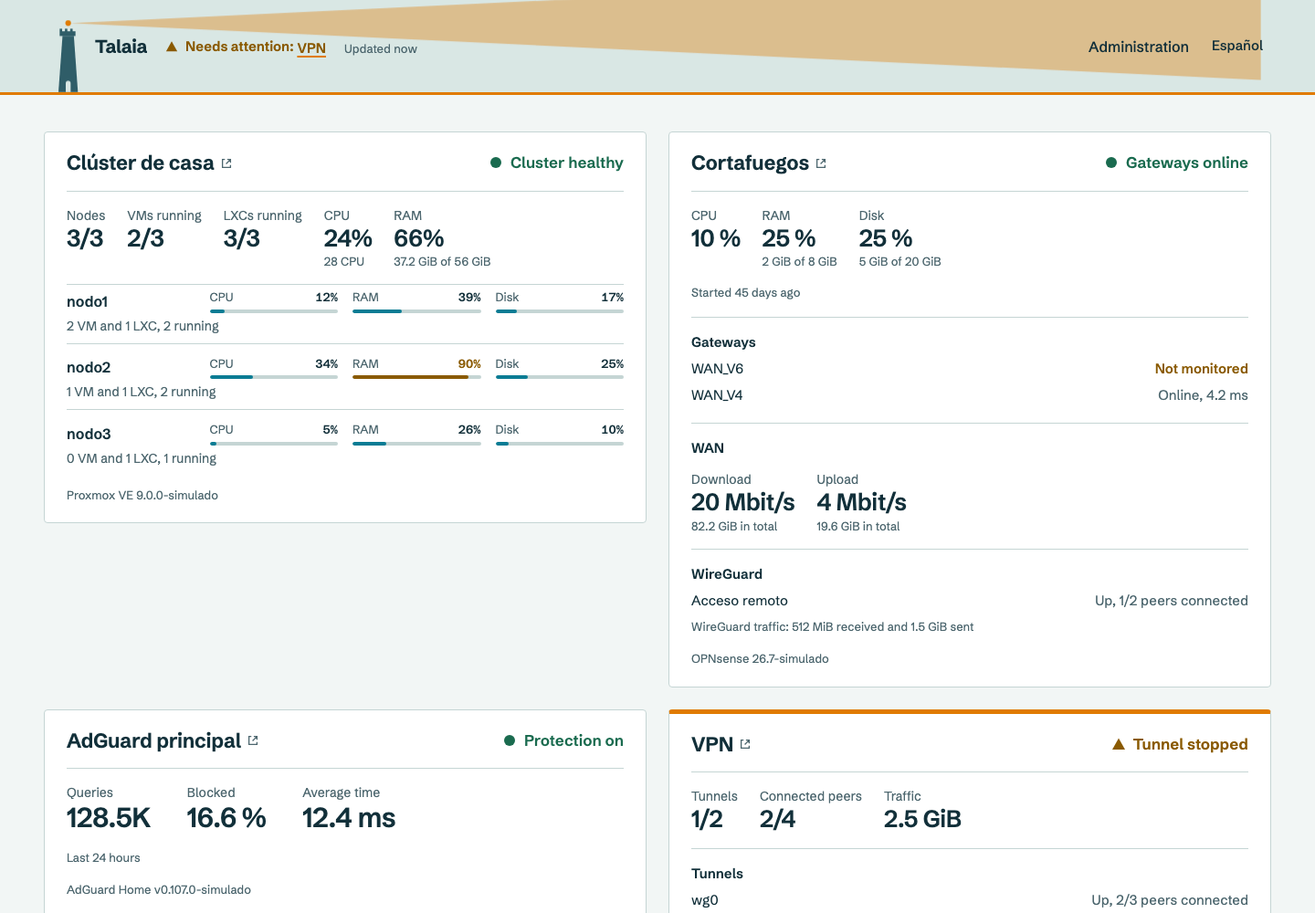
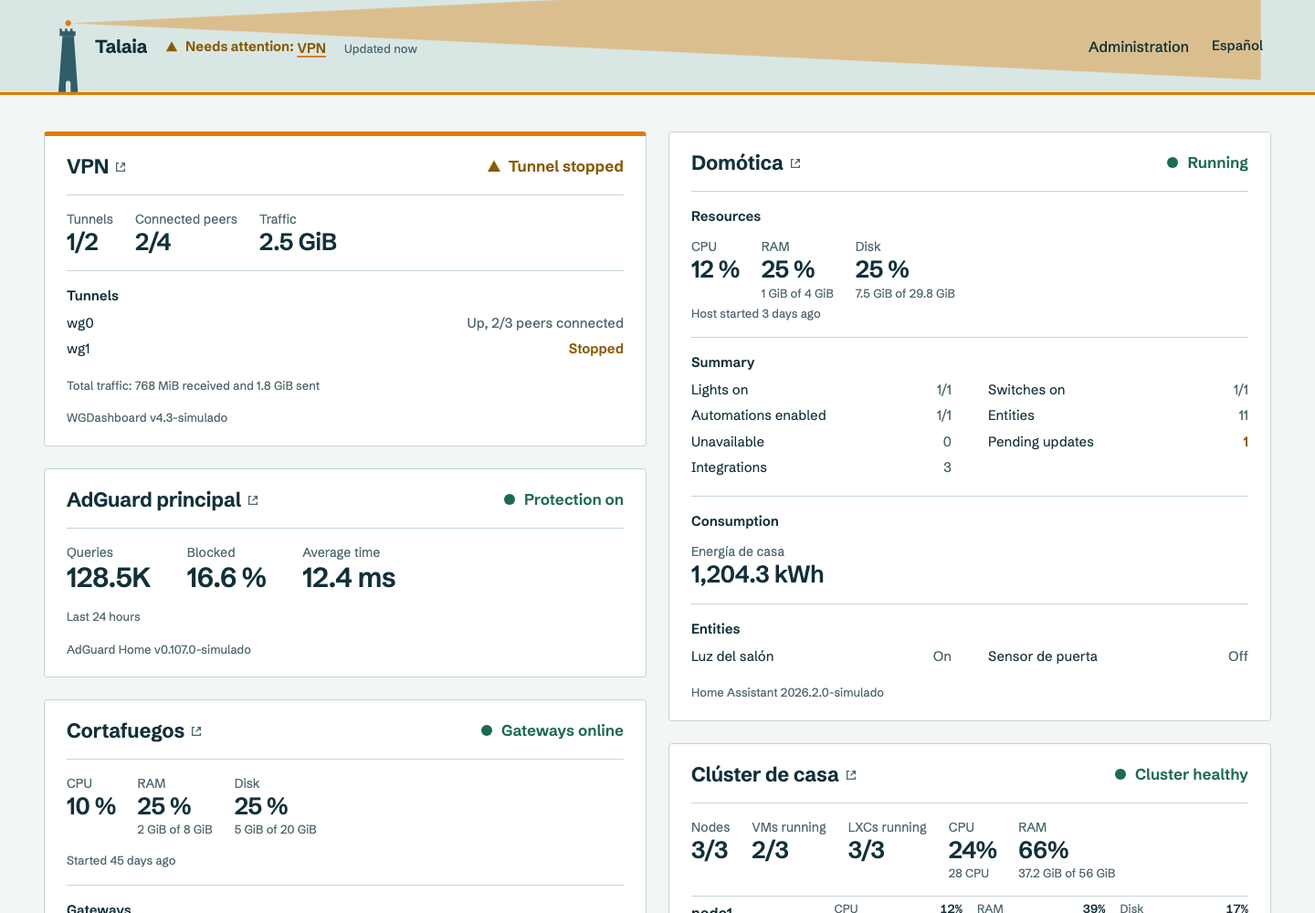
Documenta el panel apilado (hito 13)

diff --git a/docs/superpowers/plans/2026-11-13-panel-apilado.md b/docs/superpowers/plans/2026-11-13-panel-apilado.md
@@ -1,0 +1,130 @@
+# Bloques que se apilan solos y panel a todo el ancho: plan de implementación
+
+> **For agentic workers:** REQUIRED SUB-SKILL: Use superpowers:subagent-driven-development (recommended) or superpowers:executing-plans to implement this plan task-by-task. Steps use checkbox (`- [ ]`) syntax for tracking.
+
+**Goal:** En el panel, cada bloque se coloca justo debajo del último bloque de sus columnas según su altura real. El panel ocupa todo el ancho de la ventana, y el editor muestra lo mismo.
+
+**Architecture:** Una función pura `stackLayout` en `web/src/stack.ts` calcula la posición de cada bloque a partir de sus columnas, su orden y las alturas medidas. El panel pasa del CSS grid por filas a un contenedor relativo con bloques absolutos, medidos con `ResizeObserver`. El editor calcula `h` a partir de la vista previa, solo permite cambiar el ancho, y su estado «sin guardar» ignora `h`.
+
+**Tech Stack:** React 19 + TypeScript, react-grid-layout 2, Go (API y store), Playwright (E2E).
+
+**Spec:** `docs/superpowers/specs/2026-11-13-panel-apilado-design.md`
+
+## Global Constraints
+
+- Sin cambios de esquema ni de formato en la API: se siguen guardando `x`, `y`, `w` y `h` en 12 columnas.
+- La API mantiene `minWidgetWidth = 2`. El editor usa `minW = 3`.
+- Anchos de los botones: 3, 4, 6, 8 y 12. El tirador lateral (`e`) permite cualquier ancho de 3 a 12.
+- Ancho por defecto de un bloque nuevo: 4, en el editor (`NEW_WIDTH`) y en el store (`DefaultWidgetWidth`).
+- Umbrales del panel: por debajo de 900 px, una columna; de 900 a 1400 px, anchos menores de 6 pasan a 6 y se recolocan en dos mitades por orden; por encima de 1400 px, la disposición del editor.
+- Sin animaciones de posición en el panel.
+- Rama `hito-13-panel-apilado` desde `main`. Commits en español con la línea `Co-Authored-By: Claude Opus 5.5 <noreply@anthropic.com>`.
+- Documentación en el mismo cambio: 01, 03, 04, 05, 06 y los dos manuales. Capturas en los dos idiomas con `make screenshots`.
+
+## Review Focus
+
+1. **Un bloque cambia de altura con datos en vivo** (aparece una sección, crece una lista): los de debajo se recolocan sin solaparse. Se prueba en la tarea 2, con un estado del simulador que alarga un bloque.
+2. **Abrir el editor no marca «Cambios sin guardar»**, ni tampoco cuando llegan datos nuevos. Se prueba en la tarea 3 con la aserción de «Sin cambios» tras esperar más de un ciclo de refresco.
+3. **Pantalla mediana (1100 px) con bloques de ancho 3 y 4:** ningún bloque se sale de la ventana ni se solapa. Se prueba en la tarea 2 con un viewport de 1100.
+4. **Panel guardado antes, con `h = 10` y `y` antiguos:** se pinta en el mismo orden y columnas, sin huecos. Lo cubren los escenarios E2E existentes, que guardan con el formato antiguo antes de la tarea 3.
+5. **Móvil (375 px):** una columna en orden y sin desbordamiento horizontal. Lo cubre E2E-13, que debe seguir pasando.
+
+---
+
+### Task 1: Apilado puro y ancho por defecto en el store
+
+**Files:**
+- Create: `web/src/stack.ts`
+- Modify: `internal/store/panel.go` (`DefaultWidgetWidth` = 4; `placeNewConnection` alterna tres columnas: `x = (count % 3) * 4`)
+- Test: `internal/store/store_test.go` (`TestNewConnectionsFillTwoColumns` → `TestNewConnectionsFillThreeColumns`)
+
+**Interfaces:**
+- Produces:
+  ```ts
+  export interface StackItem { id: string; x: number; y: number; w: number }
+  export interface Placed { id: string; x: number; w: number; top: number }
+  export const COLUMNS = 12;
+  /** Anchos efectivos según el ancho de la ventana (px). */
+  export function responsiveItems(items: StackItem[], viewport: number): StackItem[];
+  /** Apila por orden (y, x): top = máximo fondo ocupado en sus columnas. */
+  export function stackLayout(items: StackItem[], heights: Record<string, number>, gap: number): { placed: Placed[]; height: number };
+  ```
+- `responsiveItems`: viewport < 900 → todos `x = 0, w = 12`, en orden; 900 ≤ viewport < 1400 → `w = max(w, 6)`, después se recolocan por orden de izquierda a derecha (`x` acumulado, salto de línea si `x + w > 12`), con una `y` creciente para conservar el orden; ≥ 1400 → sin cambios.
+
+- [ ] **Step 1: Write the failing test** `TestNewConnectionsFillThreeColumns`: con cuatro conexiones creadas, los widgets tienen `X` 0, 4, 8 y 0, `Y` 0, 0, 0 y `DefaultWidgetHeight`, y `W` igual a 4.
+- [ ] **Step 2: Run** `go test ./internal/store -run TestNewConnectionsFill`. Expected: FAIL.
+- [ ] **Step 3: Implement** the store change and `web/src/stack.ts` (pure functions, no React).
+- [ ] **Step 4: Run** `go test ./internal/store` and `npm --prefix web run typecheck`. Expected: PASS.
+- [ ] **Step 5: Update** the test name in `docs/proyecto/04-plan-de-pruebas.md`, including its traceability row, and run `make docs-check`.
+- [ ] **Step 6: Commit** «Añade el apilado de bloques y el ancho por defecto de un tercio».
+
+### Task 2: Panel apilado y a todo el ancho
+
+**Files:**
+- Modify: `web/src/Dashboard.tsx` (bloque `.panel-grid`)
+- Modify: `web/src/styles.css` (`.lookout-main` sin `max-width`; `.panel-grid` relativo; hijos absolutos; quitar la regla `grid-column … !important` de 900 px)
+- Modify: `e2e/fake-homeassistant.mjs` si hace falta un estado que alargue el bloque (Review Focus 1)
+- Test: `e2e/run.mjs` (E2E-38 nuevo; E2E-24 deja de leer `style.gridColumn`)
+
+**Interfaces:**
+- Consumes: `stackLayout` and `responsiveItems` from Task 1.
+- Produces: each block wrapper is `<div class="panel-cell" data-x data-w style="left; width; top">`. The `data-x` and `data-w` values are the effective columns. Tests use them, not styles.
+
+- [ ] **Step 1: Write the failing E2E** `["E2E-38", "Bloques apilados por su altura real y panel a todo el ancho"]`:
+  - En el editor, coloca dos bloques cortos uno encima del otro en las columnas 0-5 y uno largo en 6-11, y guarda.
+  - A 1600 px: el `top` del segundo bloque corto es igual al fondo del primero más el espacio entre bloques (±2 px), y menor que el fondo del largo.
+  - `.lookout-main` mide más de 1472 px de ancho.
+  - Si el simulador alarga el bloque de arriba, el de debajo baja y no se solapan.
+  - A 1100 px: ningún `.panel-cell` se sale de la ventana ni se solapa con otro.
+- [ ] **Step 2: Run** `make e2e`. Expected: FAIL at E2E-38.
+- [ ] **Step 3: Implement** the panel:
+  - Measure each `.service` with one `ResizeObserver`.
+  - Calculate `responsiveItems(widgets, window.innerWidth)` and then `stackLayout(…, heights, 24)`.
+  - Position with `left = x / 12`, `width = w / 12` minus the gap, and `top` in px. The container gets the total height.
+  - Recalculate on window resize.
+  - Until every height is measured, render in normal flow.
+- [ ] **Step 4: Adapt E2E-24** to read `data-w` and run `make e2e`. Expected: PASS, including E2E-13 at 375 px.
+- [ ] **Step 5: Commit** «Apila los bloques del panel por su altura real y usa todo el ancho».
+
+### Task 3: Editor con alturas reales y anchos por botones
+
+**Files:**
+- Modify: `web/src/PanelEditor.tsx`:
+  - `NEW_WIDTH = 4`, `MIN_WIDTH = 3`.
+  - `resizeConfig.handles = ["e"]`.
+  - `resizeWidget` recorre `[3, 4, 6, 8, 12]`.
+  - `dirty` compara sin `h`.
+  - Medición de la vista previa con `ResizeObserver` → `h = ceil((px + 16) / (28 + 16))`, limitada a `[2, 60]`.
+- Modify: `web/src/styles.css`: `.panel-wide` sin `max-width`, y `.editor-widget-preview` sin recorte vertical, para medir su altura real.
+- Test: `e2e/run.mjs` (E2E-24)
+
+**Interfaces:**
+- Consumes: nothing from earlier tasks. The editor keeps sending `PlacedWidget` to `api.savePanel` unchanged.
+
+- [ ] **Step 1: Extend E2E-24** (failing):
+  - On opening the editor, wait 6 s (more than the 5 s refresh of the simulators) and check that it still says «Sin cambios».
+  - «Más ancho» on a block of width 4 leaves it at 6, and again at 8.
+  - The corner handle no longer changes the height: dragging down keeps the bounding box height within ±4 px.
+- [ ] **Step 2: Run** `make e2e`. Expected: FAIL at E2E-24.
+- [ ] **Step 3: Implement** the editor changes listed above.
+- [ ] **Step 4: Run** `make test`, `make e2e` and `make docs-check`. Expected: PASS.
+- [ ] **Step 5: Commit** «Ajusta el editor a las alturas reales y a anchos de cuarto a fila entera».
+
+### Task 4: Documentación, capturas y verificación
+
+**Files:**
+- Modify:
+  - `docs/proyecto/01-requisitos.md`: RF-22 o un RF nuevo, hito 13.
+  - `docs/proyecto/03-diseno-funcional.md`: Altura, Recuadro, anchos y umbrales.
+  - `docs/proyecto/04-plan-de-pruebas.md`: E2E-38, E2E-24 y trazabilidad.
+  - `docs/proyecto/05-decisiones.md`: DEC-41, que sustituye en parte a DEC-38 en la altura de los bloques.
+  - `docs/proyecto/06-estado-y-cambios.md`: fila e historial del hito 13.
+  - Los dos manuales: «Organizar el panel».
+  - Capturas de `docs/usuario/img`, `docs/user/img` y `docs/img`.
+- Commit the spec and this plan as well.
+
+- [ ] **Step 1: Write** the documentation above.
+- [ ] **Step 2: Run** `make screenshots` and keep only the images that change for real reasons. Look at 07, 11, 15, 16, 18 and the cover images.
+- [ ] **Step 3: Run** `make test`, `make e2e` and `make docs-check`. Expected: PASS.
+- [ ] **Step 4: Run** the `revisor-de-hito` subagent and fix what it reports.
+- [ ] **Step 5: Commit** «Documenta el panel apilado (hito 13)».

diff --git a/docs/superpowers/specs/2026-11-13-panel-apilado-design.md b/docs/superpowers/specs/2026-11-13-panel-apilado-design.md
@@ -1,0 +1,87 @@
+# Diseño: bloques que se apilan solos y panel a todo el ancho
+
+## Intención
+
+El cliente quiere colocar los bloques con más libertad. Hoy, un bloque largo (Home Assistant) fija la altura de su «fila», y los cortos que tiene al lado (Portainer) dejan un hueco debajo hasta la fila siguiente. Quiere que dos bloques cortos puedan ir uno encima de otro al lado de uno largo. Además quiere ver más bloques uno al lado del otro y aprovechar todo el ancho del monitor: hoy el panel no pasa de 92rem y queda centrado.
+
+**Causa actual.** El editor guarda para cada bloque `x`, `y`, `w` y `h` en una rejilla de 12 columnas, donde `h` son unidades de 28 px que nadie relaciona con el contenido: todos los bloques nacen con `h = 10`. El panel pinta un CSS grid con `grid-row: y / span h` y filas `auto`, así que el contenido real estira filas compartidas y empuja a los bloques de debajo aunque no estén en sus columnas.
+
+## Objetivos
+
+- En el panel, cada bloque queda justo debajo del último bloque de sus columnas, según la altura real de su contenido. No hay huecos verticales salvo el espacio entre bloques.
+- El editor muestra lo mismo: alturas reales, y los bloques suben solos al soltar. Solo se elige la anchura, las columnas y el orden.
+- El panel usa todo el ancho de la ventana, con su margen lateral, para que quepan tres, cuatro o más bloques por fila en un monitor ancho.
+- Anchos útiles y fáciles de elegir: cuarto, tercio, mitad, dos tercios y entero.
+
+## Fuera de alcance
+
+- Elegir la altura de un bloque. Desaparece como decisión del usuario.
+- Bloques que cambian de contenido según su tamaño (versiones compactas). Si un bloque estrecho no cabe, su contenido se reparte en más líneas, como hoy.
+- Cambios en el esquema de la base de datos.
+
+## Lo que lo haría fracasar
+
+- Que el panel salte o parpadee cada pocos segundos al actualizarse los datos.
+- Que el móvil empeore: debe seguir siendo una columna, en el orden del editor.
+- Que un panel guardado antes se vea desordenado tras actualizar.
+
+## Enfoques considerados
+
+1. **Columnas que se apilan solas (elegido por el cliente).** Cada bloque conserva columnas, ancho y orden; en vertical se apila según la altura real. Libertad de colocación sin calcular alturas. Si un bloque crece, los de debajo bajan.
+2. **Alturas fijas como en el editor.** Control total, pero con contenido recortado o con scroll si crece, y alturas que reajustar a mano.
+3. **Columnas fijas (2 o 3 listas).** Lo más simple, pero sin anchos libres.
+
+## Diseño
+
+### Modelo
+
+Sin cambios en la base de datos ni en la API: se siguen guardando `x`, `y`, `w` y `h` en 12 columnas.
+
+- `x` y `w`: columnas del bloque, como hoy.
+- `y`: solo da el **orden** (primero por `y`, después por `x`).
+- `h`: la calcula el editor a partir de la altura real del contenido. El panel no la usa para colocar. Se sigue guardando porque la validación de solapes de la API y el editor la necesitan.
+
+### Colocación en el panel («horizonte»)
+
+Una función pura, `stack(widgets, alturas, gap)`, recorre los bloques en orden y, para cada uno, calcula su `top` como el máximo del fondo ya ocupado en sus columnas (`x … x+w-1`); después sube ese fondo a `top + altura + gap`. Devuelve `top` por bloque y la altura total.
+
+- El contenedor del panel es `position: relative` con la altura total; cada bloque, `position: absolute` con `left` y `width` por columnas y el `top` calculado.
+- Las alturas se miden con un `ResizeObserver` por bloque. Al cambiar una, se recalcula todo en el mismo fotograma. Sin animaciones de posición, para que las actualizaciones en vivo no se noten como movimiento.
+- Antes de la primera medida, los bloques se muestran en flujo normal (una columna) para no dejar la página vacía.
+- **Anchos según la pantalla:**
+  - Menos de 900 px: una sola columna, en orden, como hoy.
+  - De 900 a 1400 px: los bloques de menos de media fila pasan a media fila y, como así ya no caben en sus columnas, se recolocan por orden de izquierda a derecha en dos mitades (columnas 0 y 6), como hace hoy `reflow` en el editor, antes de apilar. Los de media fila o más conservan su ancho y se colocan igual, por orden.
+  - Más de 1400 px: el ancho y las columnas elegidos.
+
+  El editor siempre trabaja con la disposición de escritorio (12 columnas, sin estas reglas). Los umbrales son una decisión del constructor si al probar no encajan, y la regla se documenta.
+
+### Ancho del panel
+
+`.lookout-main` deja de tener `max-width: 92rem`: ocupa toda la ventana con el margen lateral actual. El editor (`.panel-wide`) también, para que las proporciones coincidan.
+
+### Editor
+
+- `react-grid-layout` sigue con su compactación vertical por defecto, que es el mismo apilado que el panel.
+- La altura `h` de cada bloque se calcula a partir de la vista previa: `ceil((alto_px + margen) / (rowHeight + margen))`, medido con `ResizeObserver`. No se puede redimensionar en vertical: el tirador de la esquina pasa a ser lateral (`e`) y solo cambia el ancho.
+- **Las alturas medidas no cuentan como cambios.** El estado «sin guardar» compara las páginas sin `h`, así que abrir el editor o que lleguen datos nuevos no lo activa. La `h` medida se envía cuando se guarda por otros motivos.
+- Los botones «Más estrecho» y «Más ancho» recorren los anchos 3, 4, 6, 8 y 12, saltando al siguiente de la lista desde cualquier ancho. El tirador lateral permite cualquier ancho de 3 a 12: la lista es una comodidad de los botones, no una regla, y la API no la valida.
+- El ancho mínimo del editor pasa de 2 a 3 columnas (`minW`). La API mantiene el mínimo de 2 para no rechazar paneles guardados antes.
+- Los bloques nuevos nacen con ancho 4 (un tercio), en el editor y en `placeNewConnection`.
+
+La vista previa del editor mide el bloque con el ancho del editor, que puede no coincidir con el del panel. Por eso la altura del editor es aproximada. El panel siempre mide la suya.
+
+### Paneles ya guardados
+
+No necesitan migración. Su orden por `(y, x)` y sus columnas se respetan, y la altura guardada se ignora en el panel. Un bloque antiguo de 2 columnas se pinta con 2 hasta que se cambie su ancho en el editor; la API lo sigue aceptando al guardar.
+
+## Pruebas y documentación
+
+- Pruebas de Go: ancho por defecto (4) de una conexión nueva y su colocación.
+- Prueba unitaria, o en E2E si no hay pruebas de frontend, del apilado: dos bloques cortos en las columnas 1-6 y uno largo en 7-12 dan dos tops distintos a la izquierda y ninguno a la derecha.
+- E2E: en el panel real con simuladores, un bloque corto colocado bajo otro corto, al lado de uno largo, empieza donde acaba el de arriba y no donde acaba el largo. El panel ocupa más de 92rem en una ventana ancha.
+- Capturas regeneradas en los dos idiomas.
+- Documentación: 01 (requisito de colocación), 03 (reglas de altura, ancho y anchos disponibles), 05 (DEC nueva, que sustituye en parte a DEC-38), 06 (hito) y los dos manuales («Organizar el panel»).
+
+## Decisiones del constructor
+
+Las marcadas como tales arriba: los umbrales de pantalla, el ancho por defecto (4) y la secuencia de anchos (3, 4, 6, 8 y 12). Si al probar con el panel real alguna no funciona, se ajusta y se documenta. Tras la revisión del diseño se decidieron también: la recolocación en dos mitades en pantallas medianas, que las alturas medidas no cuenten como cambios, que la API mantenga el mínimo de 2 y que la lista de anchos sea solo de los botones.

diff --git a/docs/proyecto/03-diseno-funcional.md b/docs/proyecto/03-diseno-funcional.md
@@ -57,8 +57,10 @@ Mientras no exista un administrador, todas las rutas muestran el asistente de pr
 - **Secciones del bloque:** cada sección (cifras, listas, tablas o un apartado con título) lleva una línea encima y ninguna debajo. Dentro de un apartado con título, las cifras no llevan línea propia.
 - **Resumen en la cabecera:** junto al nombre, el estado de todos los servicios del panel, de cualquier página. Si todos están bien, «Los N servicios están en orden»; si no, «N servicios necesitan atención:» y sus nombres, con los fallos primero. Cada nombre lleva a su bloque, en su página, y le da el foco. Los servicios en neutro, como «Sin túneles», no cuentan como avisos.
 - **Atalaya:** la luz y el haz de la cabecera toman el color del peor estado: el acento elegido si todo va bien, ámbar con avisos y rojo con fallos, con el haz más intenso y la línea inferior del mismo color. Al cambiar el peor estado, el haz vuelve a barrer una vez, salvo con movimiento reducido.
-- **Altura:** un bloque mide lo que su contenido, aunque en el editor se le haya dado más alto, y crece si lo necesita, sin solaparse. Los bloques de una misma fila pueden acabar a distinta altura.
-- **Pantallas de menos de 900 px:** los bloques se apilan en una columna, de arriba abajo y de izquierda a derecha.
+- **Colocación:** cada bloque conserva las columnas, el ancho y el orden del editor. En vertical queda justo debajo del último bloque de sus columnas, según la altura real de su contenido, con 1,5rem entre bloques. Si un bloque cambia de altura con los datos, los de debajo se recolocan sin animación.
+- **Ancho del dashboard:** toda la ventana, con su margen lateral.
+- **Pantallas de 900 a 1400 px:** los bloques de menos de media fila pasan a media fila y se colocan por orden en dos mitades.
+- **Pantallas de menos de 900 px:** una sola columna, en el orden del editor.
 - **Página vacía:** indica que no tiene servicios.
 - **Sesión obligatoria:** si está activa, sin sesión se muestra el inicio de sesión. Quien tuviera el panel abierto deja de verlo.
 
@@ -196,10 +198,10 @@ La CPU y la RAM son las de Home Assistant, no las del equipo completo.
 
 - **Páginas:** añadir, renombrar (hasta 40 caracteres), mover y eliminar con confirmación. Entre 1 y 20. Eliminar una página no elimina sus conexiones.
 - **Añadir a esta página:** botones con las conexiones que aún no están en ella.
-- **Colocar:** arrastrando la barra de cada bloque y su esquina inferior derecha.
-- **Teclado:** botones **Antes**, **Después**, **Más estrecho** y **Más ancho**, que recolocan por filas, y **Quitar**.
-- **Vista previa:** muestra el contenido real, recortado a su tamaño, y sin interacción.
-- **Guardar:** los cambios no se aplican hasta pulsar **Guardar panel**. **Descartar** vuelve a lo guardado, y el navegador avisa si se cierra la página con cambios.
+- **Colocar:** arrastrando la barra de cada bloque para moverlo y su borde derecho para cambiar el ancho, de 3 a 12 columnas. La altura no se elige: se ajusta sola al contenido de la vista previa, y los bloques suben solos como en el dashboard.
+- **Teclado:** botones **Antes**, **Después**, **Más estrecho** y **Más ancho**, que recolocan por filas, y **Quitar**. Los anchos de los botones son un cuarto, un tercio, media fila, dos tercios y la fila entera. Un bloque nuevo ocupa un tercio.
+- **Vista previa:** muestra el contenido real, sin interacción. Su altura es aproximada, porque se mide con el ancho del editor.
+- **Guardar:** los cambios no se aplican hasta pulsar **Guardar panel**. Las alturas medidas no cuentan como cambios. **Descartar** vuelve a lo guardado, y el navegador avisa si se cierra la página con cambios.
 
 Una misma conexión puede estar en varias páginas, una vez en cada una. Una conexión fuera de todas las páginas se sigue consultando y su estado se ve en **Conexiones**, pero no sale por la API pública.
 

diff --git a/docs/proyecto/04-plan-de-pruebas.md b/docs/proyecto/04-plan-de-pruebas.md
@@ -178,7 +178,7 @@ Las pruebas E2E comparten un único recorrido: cada escenario parte del estado q
 | E2E-10 | Conexión guardada con un servicio inaccesible | RF-10, RF-21 |
 | E2E-11 | Editar y eliminar conexiones | RF-10, RF-14 |
 | E2E-12 | Cambio de idioma recordado y aplicado a las demás pestañas | RF-05 |
-| E2E-24 | Editor: arrastrar, controles de teclado, descartar y guardar | RF-22, RNF-08 |
+| E2E-24 | Editor: arrastrar, controles de teclado, alturas automáticas, descartar y guardar | RF-22, RNF-08 |
 | E2E-25 | Varias páginas, servicios fuera del panel y aviso desde otra página | RF-22, RF-23, RF-26 |
 | E2E-26 | Tema y color de acento | RF-24 |
 | E2E-27 | Inicio de sesión opcional para ver el panel | RF-07 |
@@ -203,7 +203,7 @@ Las pruebas E2E comparten un único recorrido: cada escenario parte del estado q
 | E2E-35 | WGDashboard en el panel: túneles, peers y estados | RF-20, RF-90 |
 | E2E-36 | WireGuard en el bloque de OPNsense, opcional y sin nombres de peers | RF-20, RF-73, RF-74 |
 | E2E-37 | La atalaya resume el peor estado y la antigüedad, lleva al bloque, y el pie da la versión | RF-26 |
-| E2E-38 | Bloques apilados por su altura real y panel a todo el ancho | RF-22 |
+| E2E-38 | Bloques apilados por su altura real y panel a todo el ancho | RF-27 |
 
 Los servicios simulados reproducen las rutas y la forma de respuesta usadas. Las discrepancias con el servicio real las cubren las verificaciones manuales.
 
@@ -323,9 +323,10 @@ Los requisitos pendientes se probarán en su hito.
 | RF-54 | `TestSummary`, E2E-21 |
 | RF-07 | `TestDashboardCanRequireLogin`, `TestSettingsDefaultsAndSave`, E2E-27 |
 | RF-08 | `TestChangePassword`, `TestPasswordChangeAndReset`, E2E-28, INS-03 |
-| RF-22 | `TestPanelSaveAndValidation`, `TestUnplacedConnectionIsHidden`, `TestNewConnectionsFillThreeColumns`, `TestPanelSaveAndCascade`, E2E-24, E2E-25, E2E-38 |
+| RF-22 | `TestPanelSaveAndValidation`, `TestUnplacedConnectionIsHidden`, `TestNewConnectionsFillThreeColumns`, `TestPanelSaveAndCascade`, E2E-24, E2E-25 |
 | RF-23 | `TestPanelSaveAndValidation`, `TestPanelSaveAndCascade`, E2E-25 |
 | RF-26 | E2E-25, E2E-37 |
+| RF-27 | `TestNewConnectionsFillThreeColumns`, E2E-24, E2E-38 |
 | RF-24 | `TestSettingsValidation`, `TestSettingsDefaultsAndSave`, E2E-26 |
 | RF-60 | INS-01, INS-07, INS-08, INS-09, INS-10 |
 | RF-70 | `TestCollect`, `TestParseSize`, E2E-31 |

diff --git a/docs/proyecto/05-decisiones.md b/docs/proyecto/05-decisiones.md
@@ -206,3 +206,8 @@ Cada decisión recoge su motivo y sus consecuencias. Si una decisión cambia, se
 - **Decisión:** `docs/user/user-manual.md` es la traducción al inglés del manual, que sigue siendo la referencia, con capturas propias en `docs/user/img/`. `make screenshots` toma cada captura en los dos idiomas: tras la española, cambia el idioma desde otra pestaña del mismo navegador, y la página lo aplica sin recargar gracias a que el idioma se sincroniza entre pestañas.
 - **Consecuencias:** cualquier cambio visible para el usuario se escribe en los dos manuales. `make docs-check` comprueba que ambos usan las mismas capturas y tienen las mismas secciones. Los nombres de los servicios simulados siguen en español en las capturas en inglés, porque son datos del usuario.
 
+## DEC-41: bloques que se apilan solos según su altura real
+- **Contexto:** la altura de cada bloque se elegía en el editor en filas de la rejilla, sin relación con su contenido, y el dashboard reservaba esas filas. Un bloque largo fijaba la altura de su fila y los cortos de al lado dejaban un hueco (DEC-38 solo evitó que se estiraran). Además, el dashboard no pasaba de 92rem de ancho.
+- **Decisión:** el dashboard coloca cada bloque justo debajo del último de sus columnas, con su altura real medida en el navegador, y usa todo el ancho de la ventana. Las columnas, el ancho y el orden siguen siendo del editor, que mide las alturas, solo deja cambiar el ancho y no cuenta las alturas medidas como cambios. Se descartaron las alturas fijas (recortes o scroll al crecer el contenido) y las columnas fijas (sin anchos libres).
+- **Consecuencias:** sin cambios en la base de datos ni en la API, que mantiene el ancho mínimo de 2 para los paneles guardados; el editor usa 3 como mínimo y 4 por defecto. Si un bloque crece, los de debajo bajan. En pantallas de 900 a 1400 px los bloques estrechos pasan a media fila. Sustituye a DEC-38 en lo que se refiere a la altura de los bloques.
+

diff --git a/docs/usuario/manual-de-usuario.md b/docs/usuario/manual-de-usuario.md
@@ -410,8 +410,8 @@ En la administración, abre **Panel**. Cada conexión nueva se añade sola a la 
 
 **Colocar los servicios:**
 - **Mover:** arrastra la barra superior del bloque.
-- **Cambiar el tamaño:** arrastra su esquina inferior derecha.
-- **Sin arrastrar:** usa **Antes**, **Después**, **Más estrecho** y **Más ancho**.
+- **Cambiar el ancho:** arrastra su borde derecho. La altura no se elige: se ajusta sola a lo que muestra el bloque.
+- **Sin arrastrar:** usa **Antes**, **Después**, **Más estrecho** y **Más ancho**. Los botones pasan por un cuarto, un tercio, media fila, dos tercios y la fila entera. Un servicio nuevo ocupa un tercio.
 - **Quitar:** deja de mostrarlo en esa página. La conexión no se elimina, y puedes volver a añadirla con **Añadir a esta página**.
 
 **Páginas:** pulsa **Añadir página**, ponle nombre y añade sus servicios. Si hay más de una, el panel muestra pestañas. Un servicio puede estar en varias páginas.
@@ -420,7 +420,7 @@ En la administración, abre **Panel**. Cada conexión nueva se añade sola a la 
 
 **Pulsa Guardar panel** para aplicar los cambios, o **Descartar** para deshacerlos.
 
-**Cómo se ve después:** en el panel, cada bloque mide lo que su contenido: crece si lo necesita, aunque en el editor aparezca recortado, y no deja huecos en blanco si le diste más alto. En pantallas estrechas, los bloques se apilan en una sola columna.
+**Cómo se ve después:** el panel ocupa todo el ancho de la pantalla. Cada bloque queda justo debajo del anterior de sus columnas, según lo que ocupe su contenido: así, dos bloques cortos uno encima de otro caben al lado de uno largo, sin huecos. Si un bloque crece con los datos, los de debajo se recolocan solos. En pantallas medianas, los bloques de menos de media fila se muestran a media fila, y en las estrechas, en una sola columna.
 
 **Privacidad:** un servicio que no esté en ninguna página no sale por la API pública, aunque Talaia lo siga consultando.
 

diff --git a/docs/user/user-manual.md b/docs/user/user-manual.md
@@ -410,8 +410,8 @@ In the administration, open **Dashboard**. Each new connection is added on its o
 
 **Placing the services:**
 - **Move:** drag the block's top bar.
-- **Resize:** drag its bottom-right corner.
-- **Without dragging:** use **Earlier**, **Later**, **Narrower** and **Wider**.
+- **Change the width:** drag its right edge. You don't choose the height: it fits whatever the block shows.
+- **Without dragging:** use **Earlier**, **Later**, **Narrower** and **Wider**. The buttons go through a quarter, a third, half a row, two thirds and the full row. A new service takes a third.
 - **Remove:** stops showing it on that page. The connection isn't deleted, and you can add it again with **Add to this page**.
 
 **Pages:** click **Add page**, give it a name and add its services. If there is more than one, the dashboard shows tabs. A service can be on several pages.
@@ -420,7 +420,7 @@ In the administration, open **Dashboard**. Each new connection is added on its o
 
 **Click Save dashboard** to apply the changes, or **Discard** to undo them.
 
-**How it looks afterwards:** on the dashboard, each block is as tall as its content: it grows if it needs to, even if it looks cut off in the editor, and leaves no blank space if you made it taller. On narrow screens, blocks stack in a single column.
+**How it looks afterwards:** the dashboard uses the whole width of the screen. Each block sits right below the previous one in its columns, according to how much its content takes up: so two short blocks one above the other fit next to a long one, with no gaps. If a block grows with the data, the ones below move on their own. On medium screens, blocks narrower than half a row are shown at half a row, and on narrow ones, in a single column.
 
 **Privacy:** a service that isn't on any page doesn't go out through the public API, although Talaia keeps querying it.
 

diff --git a/docs/proyecto/06-estado-y-cambios.md b/docs/proyecto/06-estado-y-cambios.md
@@ -16,8 +16,16 @@
 | 10 | OPNsense: estado de WireGuard | Terminado y verificado con el OPNsense del cliente y un peer conectado, publicado en `v0.2.1` |
 | 11 | Panel de un vistazo: estado global en la atalaya y bloques con aviso visibles | Terminado y verificado con el panel real del cliente, publicado en `v0.2.2` |
 | 12 | Pulido del panel: antigüedad en la cabecera, secciones coherentes y bloques sin huecos | Terminado y verificado con el panel real del cliente, publicado en `v0.2.3` |
+| 13 | Bloques que se apilan solos y panel a todo el ancho | Programado; pendiente de revisión del cliente |
 
 ## Historial
+
+### Hito 13 (2026-11-13)
+
+**Cambiado:**
+- Cada bloque del panel queda justo debajo del anterior de sus columnas, según la altura real de su contenido, así que dos bloques cortos caben al lado de uno largo sin huecos.
+- El panel y su editor usan todo el ancho de la ventana.
+- En el editor, la altura se ajusta sola y solo se elige el ancho: los botones van de un cuarto a la fila entera, y un bloque nuevo ocupa un tercio.
 
 ### `v0.2.4` (2026-11-12)
 

diff --git a/docs/proyecto/01-requisitos.md b/docs/proyecto/01-requisitos.md
@@ -58,6 +58,7 @@ Talaia es un dashboard autoalojado para ver de un vistazo el estado de los servi
 | RF-22 | El administrador elige qué servicios se muestran, y los coloca y redimensiona arrastrando o con controles de teclado. Lo que no está en el panel no sale por la API pública | 5 | Implementado |
 | RF-23 | El dashboard admite varias páginas | 5 | Implementado |
 | RF-26 | La cabecera del dashboard resume el peor estado de los servicios de todas sus páginas y enlaza con cada bloque que necesita atención; los bloques con aviso o fallo se distinguen a distancia | 11 | Implementado |
+| RF-27 | Cada bloque del dashboard queda justo debajo del anterior de sus columnas, según la altura real de su contenido, y el dashboard usa todo el ancho de la ventana | 13 | Implementado |
 | RF-24 | El dashboard admite tema claro, oscuro o del sistema, y color de acento | 5 | Implementado |
 
 ### AdGuard Home
